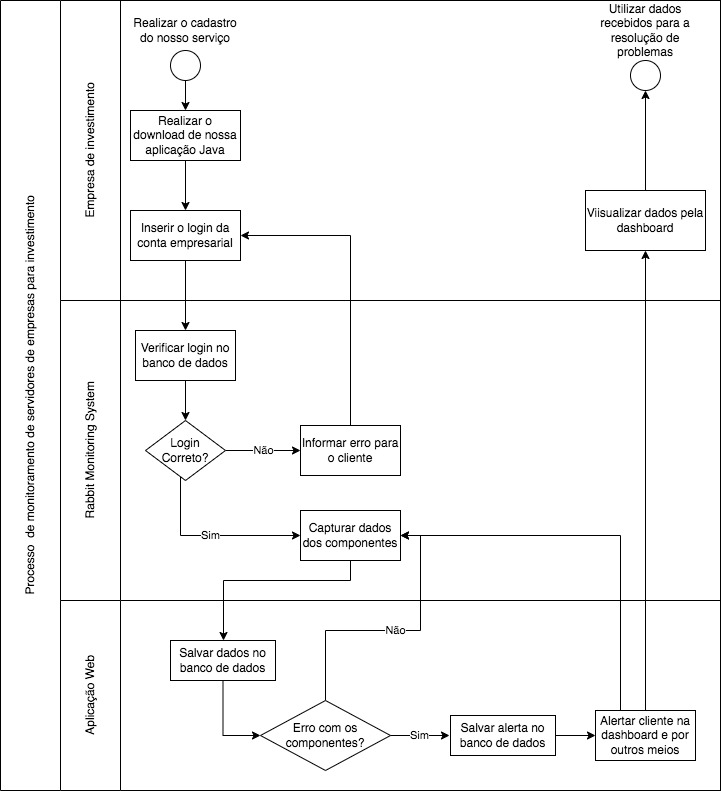
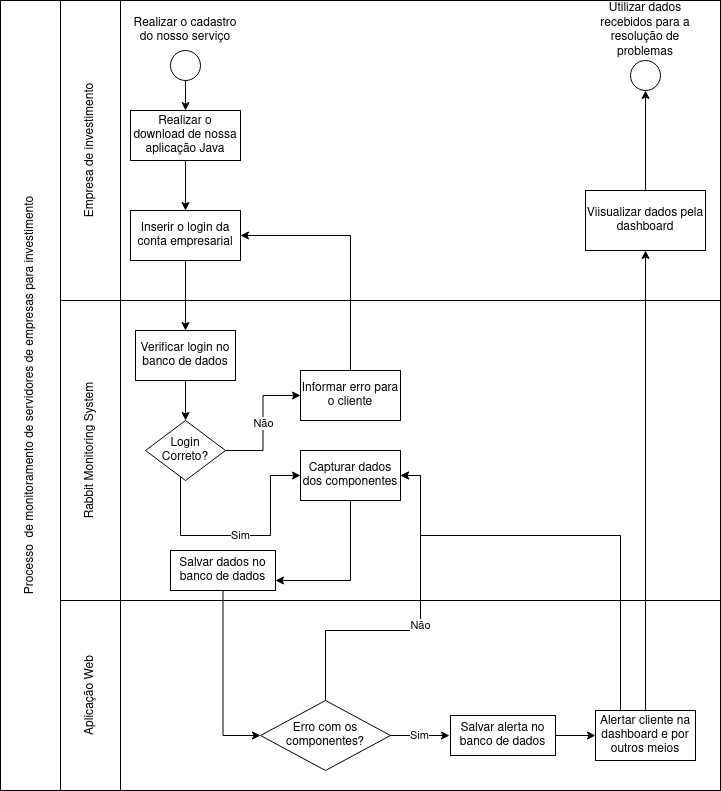
BPMN mudado com o feedback do brandão durante a apresentação da sprint

diff --git a/Site/src/database/config.js b/Site/src/database/config.js
@@ -21,8 +21,8 @@ var sqlServerConfig = {
 var mySqlConfig = {
     host: "localhost",
     database: "bolsa",
-    user: "aluno",
-    password: "sptech",
+    user: "root",
+    password: "O@kami261004",
     timezone: "-00:00"
 };
 

diff --git a/Java/projeto-rabbit/src/main/java/com/mycompany/projeto/rabbit/Dashboard.java b/Java/projeto-rabbit/src/main/java/com/mycompany/projeto/rabbit/Dashboard.java
@@ -1,4 +1,4 @@
-package com.mycompany.projeto.rabbit;
+ package com.mycompany.projeto.rabbit;
 
 import com.github.britooo.looca.api.core.Looca;
 import com.github.britooo.looca.api.util.Conversor;
